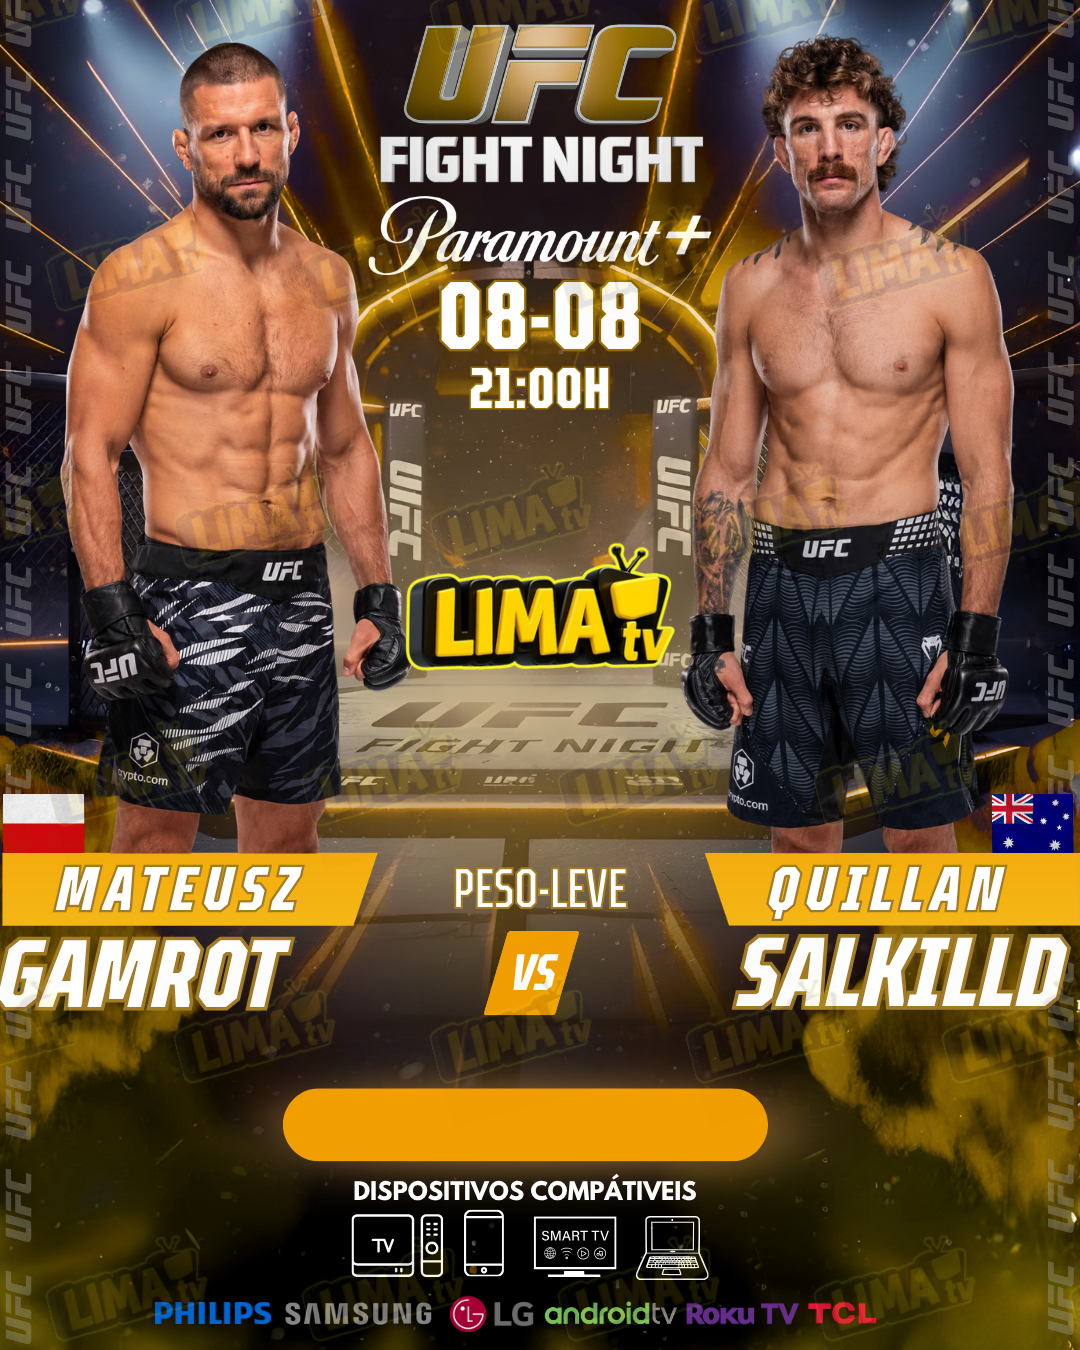
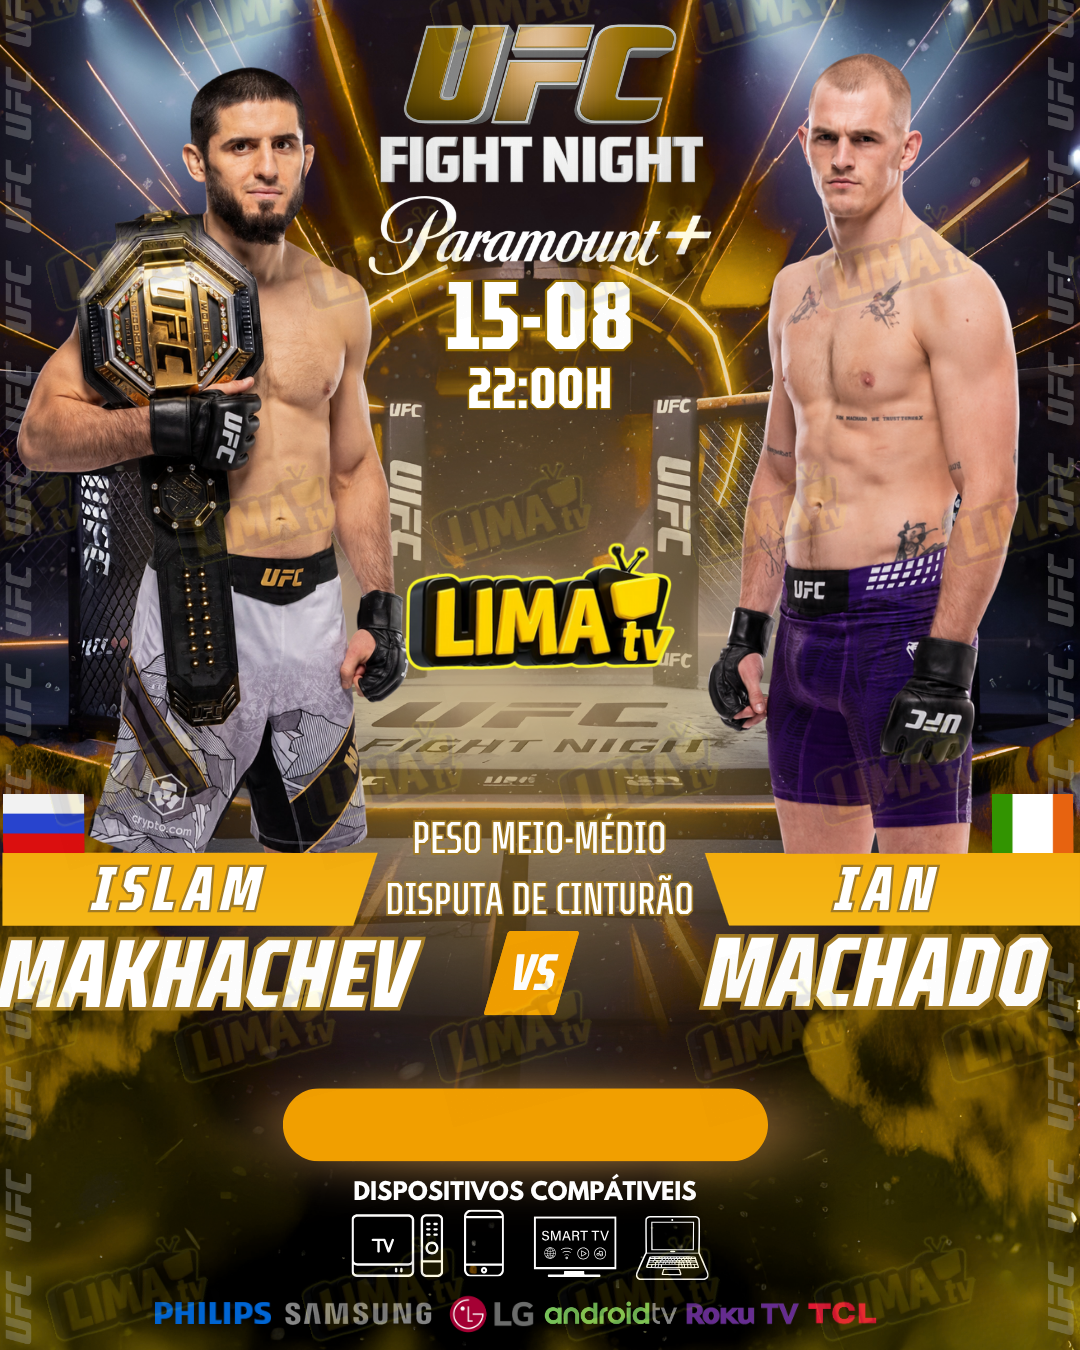
atualizacao 15/08/202.6

Changed region(s): [[0.0, 0.0311, 0.6417, 0.7467], [0.6111, 0.0, 1.0, 0.7467], [0.3972, 0.1867, 0.6111, 0.3111]]

diff --git a/index.html b/index.html
@@ -140,7 +140,7 @@
 
             <div>
               <img
-                src="futebol/banner_1.png?v=14/08/06"
+                src="futebol/banner_1.png?v=15/08/06"
                 alt="Jogos de futebol de hoje com horários e onde assistir"
                 width="300"
                 height="400"
@@ -152,7 +152,31 @@
            
             <div>
               <img
-                src="futebol/banner_2.png?v=14/08/06"
+                src="futebol/banner_2.png?v=15/08/06"
+                alt="Jogos de futebol de hoje com horários e onde assistir"
+                width="300"
+                height="400"
+                loading="lazy"
+              />
+              <button class="btn-fullscreen">Ver em Tela Cheia</button>
+            </div>
+
+           
+            <div>
+              <img
+                src="futebol/banner_3.png?v=15/08/06"
+                alt="Jogos de futebol de hoje com horários e onde assistir"
+                width="300"
+                height="400"
+                loading="lazy"
+              />
+              <button class="btn-fullscreen">Ver em Tela Cheia</button>
+            </div>
+
+           
+            <div>
+              <img
+                src="futebol/banner_4.png?v=15/08/06"
                 alt="Jogos de futebol de hoje com horários e onde assistir"
                 width="300"
                 height="400"
@@ -238,13 +262,13 @@
           vivo.
         </p>
 
-        <p>PRÓXIMO EVENTO DIA 15/08/2026</p>
+        <!-- <p>PRÓXIMO EVENTO DIA 15/08/2026</p> -->
 
         <div class="div-imagens">
           <div class="container-imagens">
-            <!-- <div>
+            <div>
               <img
-                src="ufc/capa_com_logo.png?v=08/08/2026"
+                src="ufc/capa_com_logo.png?v=15/08/2026"
                 alt="Evento UFC hoje com horário e transmissão"
                 width="300"
                 height="400"
@@ -255,14 +279,58 @@
 
             <div>
               <img
-                src="ufc/banner_1.png?v=08/08/2026"
+                src="ufc/banner_1.png?v=15/08/2026"
                 alt="Evento UFC hoje com horário e transmissão"
                 width="300"
                 height="400"
                 loading="lazy"
               />
               <button class="btn-fullscreen">Ver em Tela Cheia</button>
-            </div> -->
+            </div>
+
+            <div>
+              <img
+                src="ufc/banner_1.png?v=15/08/2026"
+                alt="Evento UFC hoje com horário e transmissão"
+                width="300"
+                height="400"
+                loading="lazy"
+              />
+              <button class="btn-fullscreen">Ver em Tela Cheia</button>
+            </div>
+
+            <div>
+              <img
+                src="ufc/banner_2.png?v=15/08/2026"
+                alt="Evento UFC hoje com horário e transmissão"
+                width="300"
+                height="400"
+                loading="lazy"
+              />
+              <button class="btn-fullscreen">Ver em Tela Cheia</button>
+            </div>
+
+            <div>
+              <img
+                src="ufc/banner_3.png?v=15/08/2026"
+                alt="Evento UFC hoje com horário e transmissão"
+                width="300"
+                height="400"
+                loading="lazy"
+              />
+              <button class="btn-fullscreen">Ver em Tela Cheia</button>
+            </div>
+
+            <div>
+              <img
+                src="ufc/banner_4.png?v=15/08/2026"
+                alt="Evento UFC hoje com horário e transmissão"
+                width="300"
+                height="400"
+                loading="lazy"
+              />
+              <button class="btn-fullscreen">Ver em Tela Cheia</button>
+            </div>
 
 
          
@@ -287,7 +355,7 @@
           <div class="container-imagens">
             <div>
               <img
-                src="esportes/banner_1.png?=v14/08/2026"
+                src="esportes/banner_1.png?=v15/08/2026"
                 alt="Evento ESPORTES hoje com horário e transmissão"
                 width="300"
                 height="400"
@@ -298,7 +366,7 @@
 
             <div>
               <img
-                src="esportes/banner_2.png?=14/08/2026"
+                src="esportes/banner_2.png?=15/08/2026"
                 alt="Evento ESPORTES hoje com horário e transmissão"
                 width="300"
                 height="400"
@@ -309,7 +377,7 @@
 
             <div>
               <img
-                src="esportes/banner_3.png?=14/08/2026"
+                src="esportes/banner_3.png?=15/08/2026"
                 alt="Evento ESPORTES hoje com horário e transmissão"
                 width="300"
                 height="400"
@@ -320,7 +388,29 @@
 
             <div>
               <img
-                src="esportes/banner_4.png?=14/08/2026"
+                src="esportes/banner_4.png?=15/08/2026"
+                alt="Evento ESPORTES hoje com horário e transmissão"
+                width="300"
+                height="400"
+                loading="lazy"
+              />
+              <button class="btn-fullscreen">Ver em Tela Cheia</button>
+            </div>
+
+            <div>
+              <img
+                src="esportes/banner_5.png?=15/08/2026"
+                alt="Evento ESPORTES hoje com horário e transmissão"
+                width="300"
+                height="400"
+                loading="lazy"
+              />
+              <button class="btn-fullscreen">Ver em Tela Cheia</button>
+            </div>
+
+            <div>
+              <img
+                src="esportes/banner_6.png?=15/08/2026"
                 alt="Evento ESPORTES hoje com horário e transmissão"
                 width="300"
                 height="400"
